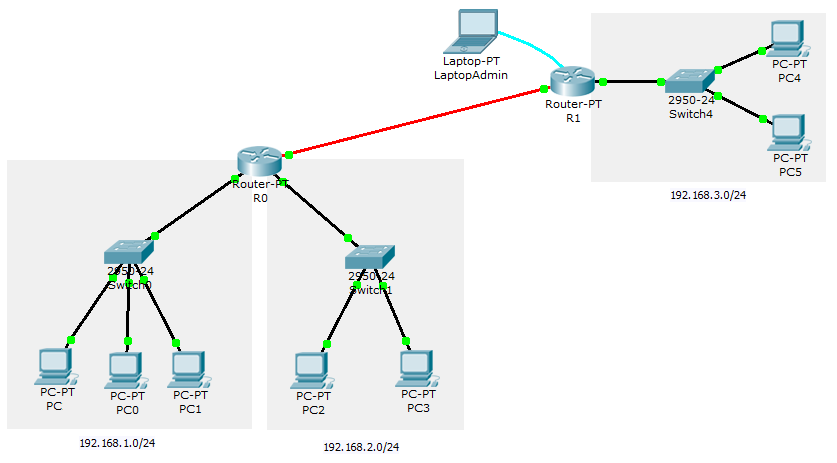
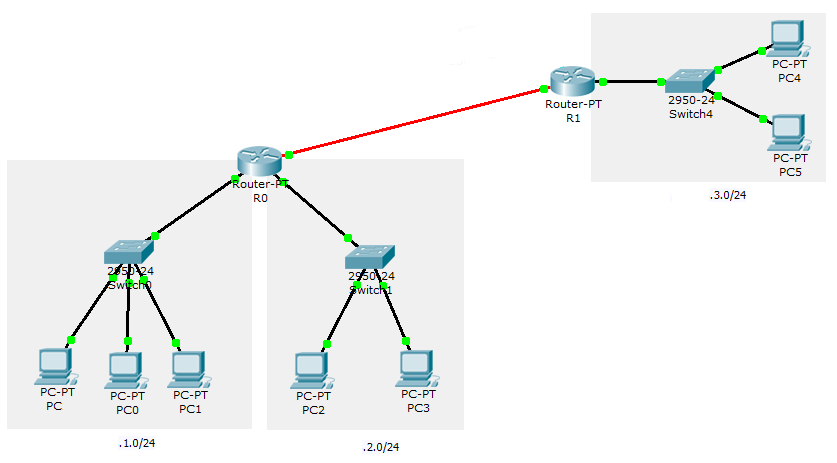
Update tugas P11

diff --git a/p11.md b/p11.md
@@ -1,105 +1,93 @@
 ---
 title: Komunikasi Data dan Jaringan Komputer Praktikum 11
 author: Auriza Akbar
-date: 2017
+date: 2020
 ---
 
 # Routing Statis
 
-## Menghubungkan Jaringan yang Lokasinya Berjauhan
+## Menghubungkan Antar-Jaringan dengan Rute Statis
 
-![*Router* untuk menghubungkan jaringan dengan lokasi yang berjauhan](etc/11/static.png)
+![*Router* untuk menghubungkan jaringan lain dengan rute statis](etc/11/static.png)
 
-- Lanjutkan dari praktikum sebelumnya, tambahkan jaringan baru `192.168.3.0/24`
-    - jaringan baru ini jaraknya 5 km dari jaringan yang sudah ada
+- Lanjutkan dari praktikum sebelumnya, tambahkan jaringan baru `10.1.3.0/24`
+    - jaringan baru ini misalnya berjarak 5 km dari jaringan yang sudah ada
     - perlu memakai kabel *fiber optic* (FO)
 
     ![Kabel *fiber optic single-mode*](etc/11/fo2.jpg)
 
 - Tambahkan satu *router* baru `R1`
-    - hubungkan *router* lama `R0` dengan *router* `R1` ini memakai kabel FO
-    - hubungkan router `R1` dengan jaringan baru tersebut
+    - hubungkan `R0` dengan `R1` ini memakai kabel FO
+    - hubungkan `R1` dengan jaringan baru tersebut
 
 - Hubungkan antara *router* `R0` dengan `R1`
-    - antara *router* `R0` dan `R1` adalah jaringan baru, misalnya `192.168.0.0/24`
-    - konfigurasi alamat IP *interface* di *router* lama `R0`
+    - antar-*router* `R0` dan `R1` akan membentuk jaringan baru, misalnya `10.1.0.0/24`
+    - konfigurasi alamat IP *interface* di `R0`
 
     ```
+    ! R0
     enable
     configure terminal
       interface FastEthernet4/0
-        ip address 192.168.0.1 255.255.255.0
+        ip address 10.1.0.1 255.255.255.0
         no shutdown
         exit
-      exit
-    disable
     ```
 
     - konfigurasi alamat IP *interface* di *router* baru `R1`
 
     ```
+    ! R1
     enable
     configure terminal
       hostname R1
       enable secret *****
 
       interface FastEthernet4/0
-        ip address 192.168.0.2 255.255.255.0
+        ip address 10.1.0.2 255.255.255.0
         no shutdown
         exit
-
-      exit
-    disable
     ```
-- Hubungkan *router* `R1` dengan jaringan `192.168.3.0/24` dan set *pool* DHCP untuk jaringan tersebut
+
+- Hubungkan *router* `R1` dengan jaringan `10.1.3.0/24` dan set *pool* DHCP untuk jaringan tersebut
 
     ```
-    enable
-    configure terminal
-
+    ! R1
       interface FastEthernet0/0
-        ip address 192.168.3.1 255.255.255.0
+        ip address 10.1.3.1 255.255.255.0
         no shutdown
         exit
 
       ip dhcp pool NET3
-        network 192.168.3.0 255.255.255.0
-        default-router 192.168.3.1
+        network 10.1.3.0 255.255.255.0
+        default-router 10.1.3.1
         exit
-      ip dhcp excluded-address 192.168.3.1 192.168.3.100
+      ip dhcp excluded-address 10.1.3.1 10.1.3.10
 
       exit
     disable
     ```
 
 - Konfigurasi *routing* statik di `R0`
-    - rute ke jaringan `192.168.3.0/24`: *forward* ke `192.168.0.2` (`R1`)
+    - tujuan ke jaringan `10.1.3.0/24` akan di-*forward* ke `10.1.0.2` (`R1`)
 
     ```
-    enable
-    configure terminal
-
-      ip route 192.168.3.0 255.255.255.0 192.168.0.2
-
+    ! R0
+      ip route 10.1.3.0 255.255.255.0 10.1.0.2
       exit
     show ip route
-    disable
     ```
 
 - Konfigurasi *routing* statik di `R1`
-    - rute ke jaringan `192.168.1.0/24`: *forward* ke `192.168.0.1` (`R0`)
-    - rute ke jaringan `192.168.2.0/24`: *forward* ke `192.168.0.1` (`R0`)
+    - tujuan ke jaringan `10.1.1.0/24` akan di-*forward* ke `10.1.0.1` (`R0`)
+    - tujuan ke jaringan `10.1.2.0/24` akan di-*forward* ke `10.1.0.1` (`R0`)
 
     ```
-    enable
-    configure terminal
-
-      ip route 192.168.1.0 255.255.255.0 192.168.0.1
-      ip route 192.168.2.0 255.255.255.0 192.168.0.1
-
-    end
+    ! R1
+      ip route 10.1.1.0 255.255.255.0 10.1.0.1
+      ip route 10.1.2.0 255.255.255.0 10.1.0.1
+      exit
     show ip route
-    disable
     ```
 
 - Set konfigurasi IP semua PC yang baru dengan DHCP
@@ -108,5 +96,15 @@ date: 2017
 
 ## Tugas
 
-Tambahkan *router* baru `R2` dengan jarak 5 km dari `R0` dan `R1`.
-*Router* `R2` ini menghubungkan ke dua jaringan baru, yaitu `192.168.4.0/24` dan `192.168.5.0/24`.
+Tambahkan *router* baru `R2` yang terhubung langsung dengan `R1`.
+*Router* ini memiliki dua jaringan baru, yaitu `10.1.4.0/24` dan `10.1.5.0/24`.
+Tunjukkan bahwa kelima jaringan tersebut sudah terhubung dengan mengirimkan *simple PDU* antar-PC dari jaringan:
+
+- `10.1.1.0/24` ke `10.1.3.0/24`
+- `10.1.3.0/24` ke `10.1.4.0/24`
+- `10.1.2.0/24` ke `10.1.5.0/24`
+
+Tunjukkan semua skenario di atas *successful*.
+Kumpulkan _screenshot_ hasilnya ke LMS.
+Berikan label nama dan NIM anda.
+Format PNG, GIF, atau JPEG.
